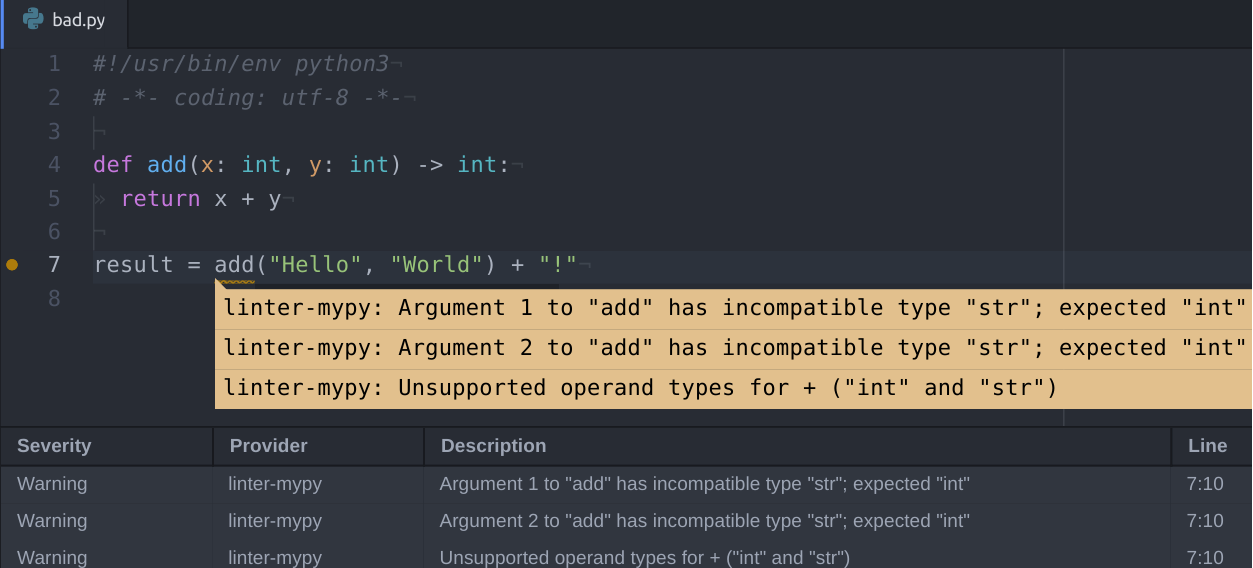
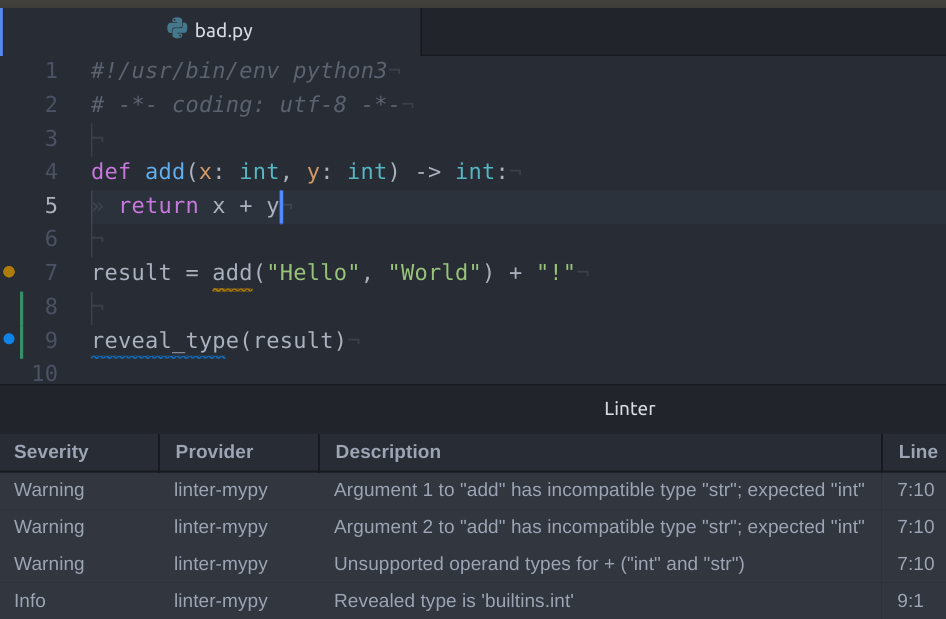
Add explicit support for reveal_type

diff --git a/spec/fixtures/bad.py b/spec/fixtures/bad.py
@@ -5,3 +5,5 @@ def add(x: int, y: int) -> int:
 	return x + y
 
 result = add("Hello", "World") + "!"
+
+reveal_type(result)

diff --git a/CHANGELOG.md b/CHANGELOG.md
@@ -6,8 +6,12 @@ and this project adheres to [Semantic Versioning](http://semver.org/).
 
 ## [Unreleased]
 
+### Added
+- User friendly support for mypy [reveal_type](http://mypy.readthedocs.io/en/latest/cheat_sheet_py3.html#when-you-re-puzzled-or-when-things-are-complicated).
+
 ### Changed
 - No more filter warnings which are in another file than the one being explicitly linted (related to the setting "Follow Imports")
+- Updated the screen shot to show the behavior of [reveal_type](http://mypy.readthedocs.io/en/latest/cheat_sheet_py3.html#when-you-re-puzzled-or-when-things-are-complicated).
 
 ## [Released] - 2.1.3 2017-06-02
 
